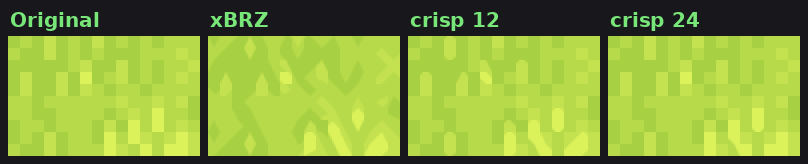
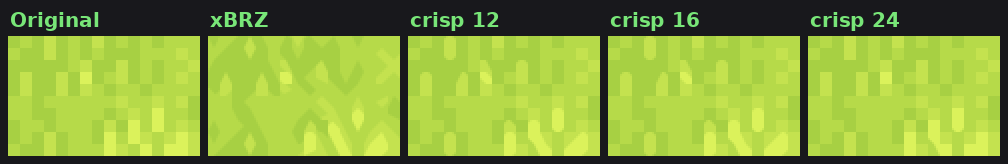
Make minimum contrast 16 the default, free choice on both sides of the comparison
XBRZ_MINC defaults to 16 again, the balance between xBRZ smoothness and
the original pixels. The presets table lists 12, 16 (default) and 24, and
every README image and the animated preview show contrast 16 with steep
3.2 and dominant direction 3.75.

All images are lossless PNG now, and the animated preview is an APNG. The
comparison page lets each side pick integer scaling, xBRZ, MMPX Advanced
or xBRZ Crisp with contrast 12, 16 or 24, and the difference marks are
computed in the browser for whichever two images are shown.

Claude-Session: https://claude.ai/code/session_01NoUuzh3YspgqPacroVBWQ7

diff --git a/docs/index.html b/docs/index.html
@@ -68,8 +68,12 @@ select {
   position: absolute; inset: 0; width: 100%; height: 100%; display: block; max-width: none;
   image-rendering: pixelated; image-rendering: crisp-edges; user-select: none; -webkit-user-drag: none;
 }
-.stage img.mask { pointer-events: none; }
-.stage img[hidden] { display: none; }
+.stage canvas { position: absolute; inset: 0; width: 100%; height: 100%; display: block; pointer-events: none; image-rendering: pixelated; }
+.stage canvas[hidden] { display: none; }
+.sides { display: grid; gap: 12px; grid-template-columns: repeat(auto-fit, minmax(280px, 1fr)); }
+.side { display: grid; gap: 10px; align-content: start; padding: 12px; border: 1px solid var(--line); border-radius: 10px; background: var(--panel); min-width: 0; }
+.side h2 { font-size: 1rem; }
+.side .minc[hidden] { display: none; }
 .checkrow { display: flex; align-items: center; gap: 8px; min-height: 36px; font-size: .95rem; }
 .checkrow input { width: 20px; height: 20px; margin: 0; accent-color: var(--accent); }
 .overlay { position: absolute; inset: 0; pointer-events: none; }
@@ -109,19 +113,44 @@ ol { margin: 0; padding-left: 1.3em; display: grid; gap: 6px; }
     <label class="group" for="scene"><span>Scene</span>
       <select id="scene"></select>
     </label>
-    <div class="group"><span>Left</span>
-      <div class="seg" id="left" role="group" aria-label="Left image">
-        <button type="button" data-v="xbrz">xBRZ</button>
+  </section>
+
+  <section class="sides" aria-label="Images to compare">
+    <div class="side" data-side="left">
+      <h2>Left</h2>
+      <div class="seg alg" role="group" aria-label="Left algorithm">
         <button type="button" data-v="original">Integer scaling</button>
+        <button type="button" data-v="xbrz">xBRZ</button>
         <button type="button" data-v="mmpx">MMPX Advanced</button>
+        <button type="button" data-v="crisp">xBRZ Crisp</button>
+      </div>
+      <div class="group minc"><span>Crisp contrast</span>
+        <div class="seg" role="group" aria-label="Left crisp contrast">
+          <button type="button" data-v="12">12</button>
+          <button type="button" data-v="16">16 (default)</button>
+          <button type="button" data-v="24">24</button>
+        </div>
       </div>
     </div>
-    <div class="group"><span>Right</span>
-      <div class="seg" id="right" role="group" aria-label="Right image">
-        <button type="button" data-v="crisp12">crisp 12</button>
-        <button type="button" data-v="crisp24">crisp 24 (default)</button>
+    <div class="side" data-side="right">
+      <h2>Right</h2>
+      <div class="seg alg" role="group" aria-label="Right algorithm">
+        <button type="button" data-v="original">Integer scaling</button>
+        <button type="button" data-v="xbrz">xBRZ</button>
+        <button type="button" data-v="mmpx">MMPX Advanced</button>
+        <button type="button" data-v="crisp">xBRZ Crisp</button>
+      </div>
+      <div class="group minc"><span>Crisp contrast</span>
+        <div class="seg" role="group" aria-label="Right crisp contrast">
+          <button type="button" data-v="12">12</button>
+          <button type="button" data-v="16">16 (default)</button>
+          <button type="button" data-v="24">24</button>
+        </div>
       </div>
     </div>
+  </section>
+
+  <section class="controls" aria-label="View">
     <div class="group"><span>Zoom</span>
       <div class="seg" id="zoom" role="group" aria-label="Zoom">
         <button type="button" data-v="1">1×</button>
@@ -129,8 +158,8 @@ ol { margin: 0; padding-left: 1.3em; display: grid; gap: 6px; }
         <button type="button" data-v="3">3×</button>
       </div>
     </div>
-    <label class="group" for="marks"><span>Changes</span>
-      <span class="checkrow"><input type="checkbox" id="marks"> Mark what crisp changes</span>
+    <label class="group" for="marks"><span>Differences</span>
+      <span class="checkrow"><input type="checkbox" id="marks"> Mark differences</span>
     </label>
   </section>
 
@@ -139,7 +168,7 @@ ol { margin: 0; padding-left: 1.3em; display: grid; gap: 6px; }
       <div class="stage" id="stage">
         <img id="imgL" alt="">
         <img id="imgR" alt="">
-        <img id="imgM" alt="" class="mask" hidden>
+        <canvas id="cvM" hidden></canvas>
       </div>
     </div>
     <div class="overlay">
@@ -149,18 +178,19 @@ ol { margin: 0; padding-left: 1.3em; display: grid; gap: 6px; }
       <span class="tag right" id="tagR"></span>
     </div>
   </div>
-  <p class="hint">Tip: at 2× and 3× the view scrolls; the line stays where you put it. Arrow keys move the line when it has focus. "Mark what crisp changes" outlines in red every spot where the crisp image differs from xBRZ.</p>
+  <p class="hint" id="info">Tip: at 2× and 3× the view scrolls; the line stays where you put it. Arrow keys move the line when it has focus. "Mark differences" outlines in red every spot where the two sides differ.</p>
 
   <section class="prose">
     <h2>Presets</h2>
-    <p>There is one preset, <code>xbrz-crisp</code>, with a minimum contrast of 24, which keeps the textures closest to the original art. To change it, set <code>XBRZ_MINC</code> in Quick Menu › Shaders › Shader Parameters and save the preset. The cost is the same as <code>xbrz-freescale-multipass</code> at any value. Good steps:</p>
+    <p>There is one preset, <code>xbrz-crisp</code>, with a minimum contrast of 16, a balance between xBRZ smoothness and the original pixels. To change it, set <code>XBRZ_MINC</code> in Quick Menu › Shaders › Shader Parameters and save the preset. The cost is the same as <code>xbrz-freescale-multipass</code> at any value. Good steps:</p>
   </section>
   <div class="tablebox">
     <table>
       <thead><tr><th>XBRZ_MINC</th><th>Look</th></tr></thead>
       <tbody>
         <tr><td class="num">12</td><td>Closest to xBRZ, with a light gain in detail. Only the softest shading and textures keep their pixels.</td></tr>
-        <tr><td class="num">24 (default)</td><td>More texture detail in grass and foliage, closer to the original art. Some soft diagonals turn into steps.</td></tr>
+        <tr><td class="num">16 (default)</td><td>Textures and soft shading keep their pixels, while outlines, faces and text are smoothed as in xBRZ.</td></tr>
+        <tr><td class="num">24</td><td>More texture detail in grass and foliage, closer to the original art. Some soft diagonals turn into steps.</td></tr>
       </tbody>
     </table>
   </div>
@@ -173,11 +203,11 @@ ol { margin: 0; padding-left: 1.3em; display: grid; gap: 6px; }
     <table>
       <thead><tr><th>Parameter</th><th>Default</th><th>What it does</th></tr></thead>
       <tbody>
-        <tr><td class="mono">XBRZ_MINC</td><td class="num">24</td><td>Minimum color contrast (x/255) for a corner to be rounded. 0 turns it off (the tolerance and steep thresholds below still apply).</td></tr>
+        <tr><td class="mono">XBRZ_MINC</td><td class="num">16</td><td>Minimum color contrast (x/255) for a corner to be rounded. 0 turns it off (the tolerance and steep thresholds below still apply).</td></tr>
         <tr><td class="mono">XBRZ_MINC_RAMP</td><td class="num">0</td><td>Width of a soft transition around the threshold, so corners shrink gradually instead of switching at once. 0 is a hard cut.</td></tr>
         <tr><td class="mono">XBRZ_TOL</td><td class="num">15</td><td>Equal color tolerance. Stock xBRZ uses 30.</td></tr>
         <tr><td class="mono">XBRZ_STEEP</td><td class="num">3.2</td><td>Steep and shallow line threshold. Stock xBRZ uses 2.2, which turns 1-pixel steps into slopes; 3.2 keeps letters and 1-pixel details closer to the original.</td></tr>
-        <tr><td class="mono">XBRZ_DOM</td><td class="num">3.75</td><td>Dominant direction threshold.</td></tr>
+        <tr><td class="mono">XBRZ_DOM</td><td class="num">3.75</td><td>Dominant direction threshold. Stock xBRZ uses 3.6; 3.75 cuts fewer curve tips.</td></tr>
         <tr><td class="mono">XBRZ_LUMA</td><td class="num">1.0</td><td>Weight of brightness against color in the comparisons.</td></tr>
       </tbody>
     </table>
@@ -213,38 +243,93 @@ ol { margin: 0; padding-left: 1.3em; display: grid; gap: 6px; }
     ["mc_kiosk", "The Minish Cap · temple"],
     ["hpa_house", "Harry Potter: Prisoner of Azkaban · house"]
   ];
-  var LABEL = { xbrz: "xBRZ freescale", original: "Integer scaling", mmpx: "MMPX Advanced", crisp12: "xBRZ crisp 12", crisp24: "xBRZ crisp 24" };
-  var state = { scene: "gs_village", left: "xbrz", right: "crisp12", zoom: 1, pos: 0.5, marks: false };
+  var NAME = { original: "Integer scaling", xbrz: "xBRZ freescale", mmpx: "MMPX Advanced", crisp: "xBRZ Crisp" };
+  var state = { scene: "gs_village", left: { alg: "xbrz", minc: 16 }, right: { alg: "crisp", minc: 16 }, zoom: 1, pos: 0.5, marks: false };
 
   var $ = function (id) { return document.getElementById(id); };
-  var sel = $("scene"), frame = $("frame"), stage = $("stage"), imgL = $("imgL"), imgR = $("imgR"), imgM = $("imgM"), marks = $("marks");
+  var sel = $("scene"), frame = $("frame"), stage = $("stage"), imgL = $("imgL"), imgR = $("imgR"), cv = $("cvM"), marks = $("marks"), info = $("info");
   var divider = $("divider"), handle = $("handle"), tagL = $("tagL"), tagR = $("tagR");
+  var HINT = info.textContent;
 
   SCENES.forEach(function (s) { var o = document.createElement("option"); o.value = s[0]; o.textContent = s[1]; sel.appendChild(o); });
   var fromHash = (location.hash || "").slice(1);
   if (SCENES.some(function (s) { return s[0] === fromHash; })) state.scene = fromHash;
 
-  function src(scene, v) { return "img/" + scene + "-" + v + (v === "original" ? ".png" : ".webp"); }
+  function key(side) { return side.alg === "crisp" ? "crisp" + side.minc : side.alg; }
+  function label(side) { return side.alg === "crisp" ? NAME.crisp + " " + side.minc : NAME[side.alg]; }
+  function src(scene, k) { return "img/" + scene + "-" + k + ".png"; }
 
-  // preload the current scene's five images so switching sides is instant
-  function preload(scene) { ["original", "xbrz", "mmpx", "crisp12", "crisp24"].forEach(function (v) { var i = new Image(); i.src = src(scene, v); }); }
+  // preload the current scene's six images so switching sides is instant
+  function preload(scene) { ["original", "xbrz", "mmpx", "crisp12", "crisp16", "crisp24"].forEach(function (k) { var i = new Image(); i.src = src(scene, k); }); }
 
-  function setPressed(groupId, value) {
-    Array.prototype.forEach.call($(groupId).querySelectorAll("button"), function (b) { b.setAttribute("aria-pressed", String(b.dataset.v === String(value))); });
+  function setPressed(group, value) {
+    Array.prototype.forEach.call(group.querySelectorAll("button"), function (b) { b.setAttribute("aria-pressed", String(b.dataset.v === String(value))); });
   }
+
+  // pixels of each image at the 6x size (integer scaling is enlarged with nearest neighbour)
+  var cache = {};
+  function pixels(url, cb) {
+    if (cache[url]) return cb(cache[url]);
+    var im = new Image();
+    im.onload = function () {
+      var c = document.createElement("canvas"); c.width = 1440; c.height = 960;
+      var x = c.getContext("2d"); x.imageSmoothingEnabled = false; x.drawImage(im, 0, 0, 1440, 960);
+      cache[url] = x.getImageData(0, 0, 1440, 960).data; cb(cache[url]);
+    };
+    im.src = url;
+  }
+  var token = 0;
+  function drawMarks() {
+    var a = src(state.scene, key(state.left)), b = src(state.scene, key(state.right)), my = ++token;
+    if (!state.marks) { cv.hidden = true; info.textContent = HINT; return; }
+    if (a === b) { cv.hidden = true; info.textContent = "Both sides show the same image."; return; }
+    pixels(a, function (pa) { pixels(b, function (pb) {
+      if (my !== token) return;
+      var W = 1440, H = 960, n = W * H, d = new Uint8Array(n), cnt = 0, i, x, y, k;
+      for (i = 0; i < n; i++) {
+        var j = i * 4;
+        if (Math.max(Math.abs(pa[j] - pb[j]), Math.abs(pa[j + 1] - pb[j + 1]), Math.abs(pa[j + 2] - pb[j + 2])) > 8) { d[i] = 1; cnt++; }
+      }
+      // grow each changed spot by 3 px, then draw a translucent fill with a solid outline
+      var g = new Uint8Array(n);
+      for (y = 0; y < H; y++) for (x = 0; x < W; x++) if (d[y * W + x]) {
+        for (var dy = -3; dy <= 3; dy++) { var yy = y + dy; if (yy < 0 || yy >= H) continue;
+          for (var dx = -3; dx <= 3; dx++) { var xx = x + dx; if (xx >= 0 && xx < W) g[yy * W + xx] = 1; } }
+      }
+      cv.width = W; cv.height = H;
+      var ctx = cv.getContext("2d"), out = ctx.createImageData(W, H), o = out.data;
+      for (y = 0; y < H; y++) for (x = 0; x < W; x++) {
+        k = y * W + x; if (!g[k]) continue;
+        var edge = x < 2 || y < 2 || x >= W - 2 || y >= H - 2 || !g[k - 2] || !g[k + 2] || !g[k - 2 * W] || !g[k + 2 * W];
+        o[k * 4] = 255; o[k * 4 + 1] = 40; o[k * 4 + 2] = 40; o[k * 4 + 3] = edge ? 230 : 70;
+      }
+      ctx.putImageData(out, 0, 0); cv.hidden = false;
+      info.textContent = "The two sides differ in " + (100 * cnt / n).toFixed(2) + "% of the pixels.";
+    }); });
+  }
+
+  var sides = {};
+  Array.prototype.forEach.call(document.querySelectorAll(".side"), function (el) {
+    var name = el.dataset.side;
+    sides[name] = el;
+    el.querySelector(".alg").addEventListener("click", function (e) { var b = e.target.closest("button"); if (b) { state[name].alg = b.dataset.v; render(); } });
+    el.querySelector(".minc .seg").addEventListener("click", function (e) { var b = e.target.closest("button"); if (b) { state[name].minc = Number(b.dataset.v); render(); } });
+  });
 
   function render() {
     sel.value = state.scene;
-    imgL.src = src(state.scene, state.left);
-    imgR.src = src(state.scene, state.right);
-    imgL.alt = LABEL[state.left]; imgR.alt = LABEL[state.right];
-    // red marks: where the crisp version on the right differs from xBRZ freescale
-    imgM.hidden = !state.marks;
-    if (state.marks) imgM.src = "img/" + state.scene + "-marks" + state.right.slice(5) + ".png";
-    tagL.textContent = LABEL[state.left]; tagR.textContent = LABEL[state.right];
-    setPressed("left", state.left); setPressed("right", state.right); setPressed("zoom", state.zoom);
+    imgL.src = src(state.scene, key(state.left));
+    imgR.src = src(state.scene, key(state.right));
+    imgL.alt = tagL.textContent = label(state.left);
+    imgR.alt = tagR.textContent = label(state.right);
+    ["left", "right"].forEach(function (n) {
+      setPressed(sides[n].querySelector(".alg"), state[n].alg);
+      setPressed(sides[n].querySelector(".minc .seg"), state[n].minc);
+      sides[n].querySelector(".minc").hidden = state[n].alg !== "crisp";
+    });
+    setPressed($("zoom"), state.zoom);
     stage.style.width = (state.zoom * 100) + "%";
-    clip();
+    clip(); drawMarks();
   }
 
   // the divider lives in viewport coordinates; the clip is computed in stage coordinates
@@ -287,8 +372,6 @@ ol { margin: 0; padding-left: 1.3em; display: grid; gap: 6px; }
   window.addEventListener("resize", clip);
 
   sel.addEventListener("change", function () { state.scene = sel.value; preload(state.scene); render(); });
-  $("left").addEventListener("click", function (e) { var b = e.target.closest("button"); if (b) { state.left = b.dataset.v; render(); } });
-  $("right").addEventListener("click", function (e) { var b = e.target.closest("button"); if (b) { state.right = b.dataset.v; render(); } });
   $("zoom").addEventListener("click", function (e) {
     var b = e.target.closest("button"); if (!b) return;
     var old = state.zoom, z = Number(b.dataset.v);
@@ -298,7 +381,7 @@ ol { margin: 0; padding-left: 1.3em; display: grid; gap: 6px; }
     if (z !== old) { frame.scrollLeft = cx * stage.clientWidth - frame.clientWidth / 2; frame.scrollTop = cy * stage.clientHeight - frame.clientHeight / 2; clip(); }
   });
 
-  marks.addEventListener("change", function () { state.marks = marks.checked; render(); });
+  marks.addEventListener("change", function () { state.marks = marks.checked; drawMarks(); });
   preload(state.scene);
   render();
 })();

diff --git a/README.md b/README.md
@@ -21,20 +21,20 @@
 
 ## 🎬 Interactive Comparison
 
-<a href="https://ele3131.github.io/xbrz-crisp/"><img src="comparisons/preview-12.webp" alt="Animated comparison: xBRZ on the left, xBRZ crisp on the right" width="100%"></a>
+<a href="https://ele3131.github.io/xbrz-crisp/"><img src="comparisons/preview-16.png" alt="Animated comparison: xBRZ on the left, xBRZ crisp on the right" width="100%"></a>
 
-Drag the line between xBRZ crisp and xBRZ, integer scaling or MMPX Advanced on 10 Game Boy Advance scenes, compare minimum contrast 12 and 24, zoom in up to 3×, and mark in red every spot crisp changes. The images on this page use contrast 12.
+Pick integer scaling, xBRZ, MMPX Advanced or xBRZ Crisp (contrast 12, 16 or 24) on each side, drag the line across 10 Game Boy Advance scenes, zoom in up to 3×, and mark in red every spot where the two sides differ.
 
 ## 🌄 Gallery
 
 <table>
   <tr>
-    <td width="50%"><a href="comparisons/1-golden-sun-12.png"><img src="comparisons/1-golden-sun-12.png" alt="Golden Sun"></a><p align="center"><b>Golden Sun</b></p></td>
-    <td width="50%"><a href="comparisons/2-minish-cap-12.png"><img src="comparisons/2-minish-cap-12.png" alt="The Minish Cap"></a><p align="center"><b>The Minish Cap</b></p></td>
+    <td width="50%"><a href="comparisons/1-golden-sun-16.png"><img src="comparisons/1-golden-sun-16.png" alt="Golden Sun"></a><p align="center"><b>Golden Sun</b></p></td>
+    <td width="50%"><a href="comparisons/2-minish-cap-16.png"><img src="comparisons/2-minish-cap-16.png" alt="The Minish Cap"></a><p align="center"><b>The Minish Cap</b></p></td>
   </tr>
   <tr>
-    <td width="50%"><a href="comparisons/5-golden-sun-battle-12.png"><img src="comparisons/5-golden-sun-battle-12.png" alt="Golden Sun battles"></a><p align="center"><b>Golden Sun battles</b></p></td>
-    <td width="50%"><a href="comparisons/4-castlevania-12.png"><img src="comparisons/4-castlevania-12.png" alt="Castlevania: Aria of Sorrow"></a><p align="center"><b>Castlevania: Aria of Sorrow</b></p></td>
+    <td width="50%"><a href="comparisons/5-golden-sun-battle-16.png"><img src="comparisons/5-golden-sun-battle-16.png" alt="Golden Sun battles"></a><p align="center"><b>Golden Sun battles</b></p></td>
+    <td width="50%"><a href="comparisons/4-castlevania-16.png"><img src="comparisons/4-castlevania-16.png" alt="Castlevania: Aria of Sorrow"></a><p align="center"><b>Castlevania: Aria of Sorrow</b></p></td>
   </tr>
 </table>
 
@@ -42,18 +42,19 @@ Text and portraits keep their shape too, as in the spell menu of Harry Potter: P
 
 <img src="comparisons/6-azkaban-menu.png" alt="Spell menu: original, xBRZ freescale, MMPX Advanced and xBRZ crisp" width="100%">
 
-<sub>More: [other games](comparisons/3-other-games-12.png)</sub>
+<sub>More: [other games](comparisons/3-other-games-16.png)</sub>
 
 ## 🎛 Presets
 
-One preset, `xbrz-crisp`, with a minimum contrast of 24. Change `XBRZ_MINC` in Quick Menu › Shaders › Shader Parameters and save the preset to pick another look:
+One preset, `xbrz-crisp`, with a minimum contrast of 16. Change `XBRZ_MINC` in Quick Menu › Shaders › Shader Parameters and save the preset to pick another look:
 
-<img src="comparisons/design/presets-strip.png" alt="Golden Sun grass: original, xBRZ, crisp 12 and crisp 24" width="100%">
+<img src="comparisons/design/presets-strip.png" alt="Golden Sun grass: original, xBRZ, crisp 12, 16 and 24" width="100%">
 
 | `XBRZ_MINC` | Look |
 |---|---|
 | **12** | Closest to xBRZ, with a light gain in detail. |
-| **24** (default) | More texture detail in grass and foliage, closer to the original art. |
+| **16** (default) | Textures and soft shading keep their pixels, while outlines, faces and text are smoothed as in xBRZ. |
+| **24** | More texture detail in grass and foliage, closer to the original art. Some soft diagonals turn into steps. |
 
 ## 🛠 Parameters
 
@@ -62,7 +63,7 @@ One preset, `xbrz-crisp`, with a minimum contrast of 24. Change `XBRZ_MINC` in Q
 
 | Parameter | Default | What it does |
 |---|---|---|
-| `XBRZ_MINC` | 24 | Minimum color contrast (x/255) for a corner to be rounded. 0 turns it off. |
+| `XBRZ_MINC` | 16 | Minimum color contrast (x/255) for a corner to be rounded. 0 turns it off. |
 | `XBRZ_MINC_RAMP` | 0 | Width of a soft transition around the threshold. 0 is a hard cut. |
 | `XBRZ_TOL` | 15 | Equal color tolerance. Stock xBRZ uses 30. |
 | `XBRZ_STEEP` | 3.2 | Steep and shallow line threshold. Stock xBRZ uses 2.2, which turns 1-pixel steps into slopes. |
